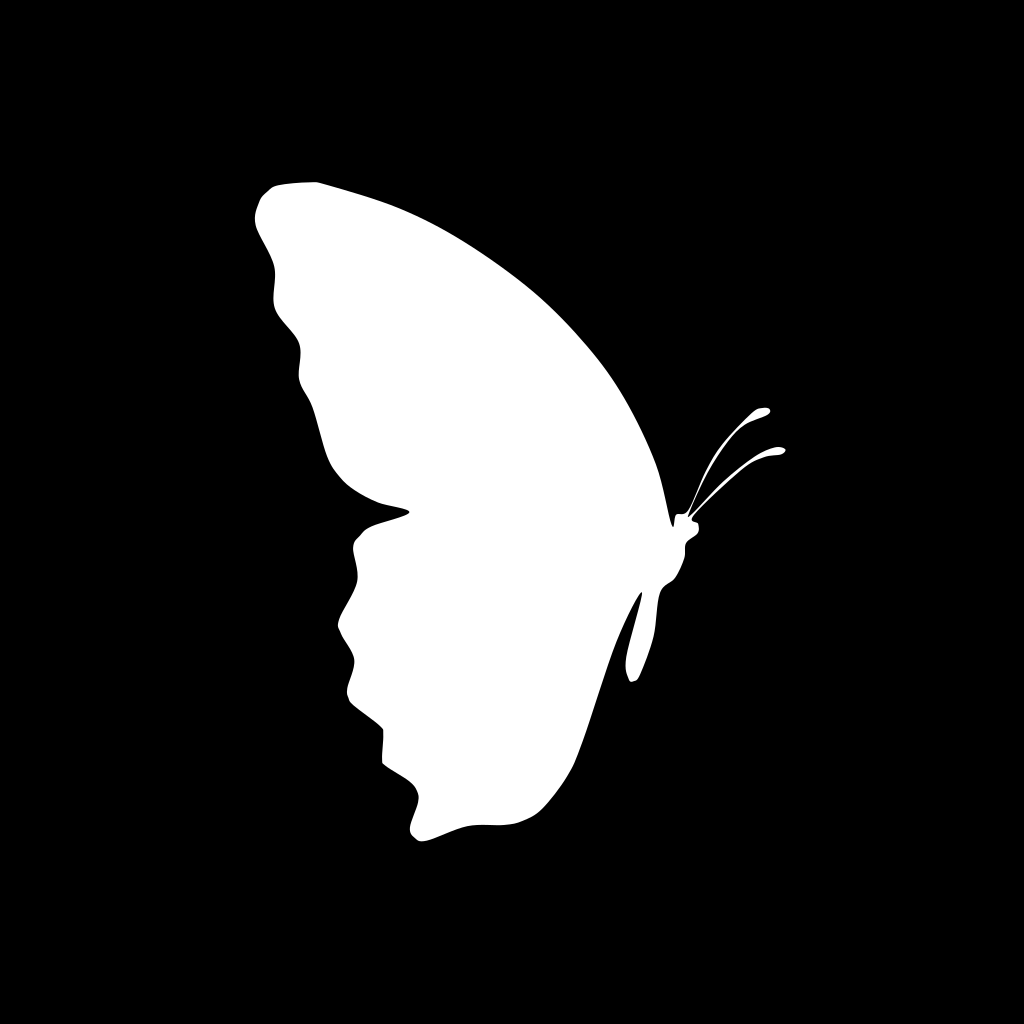
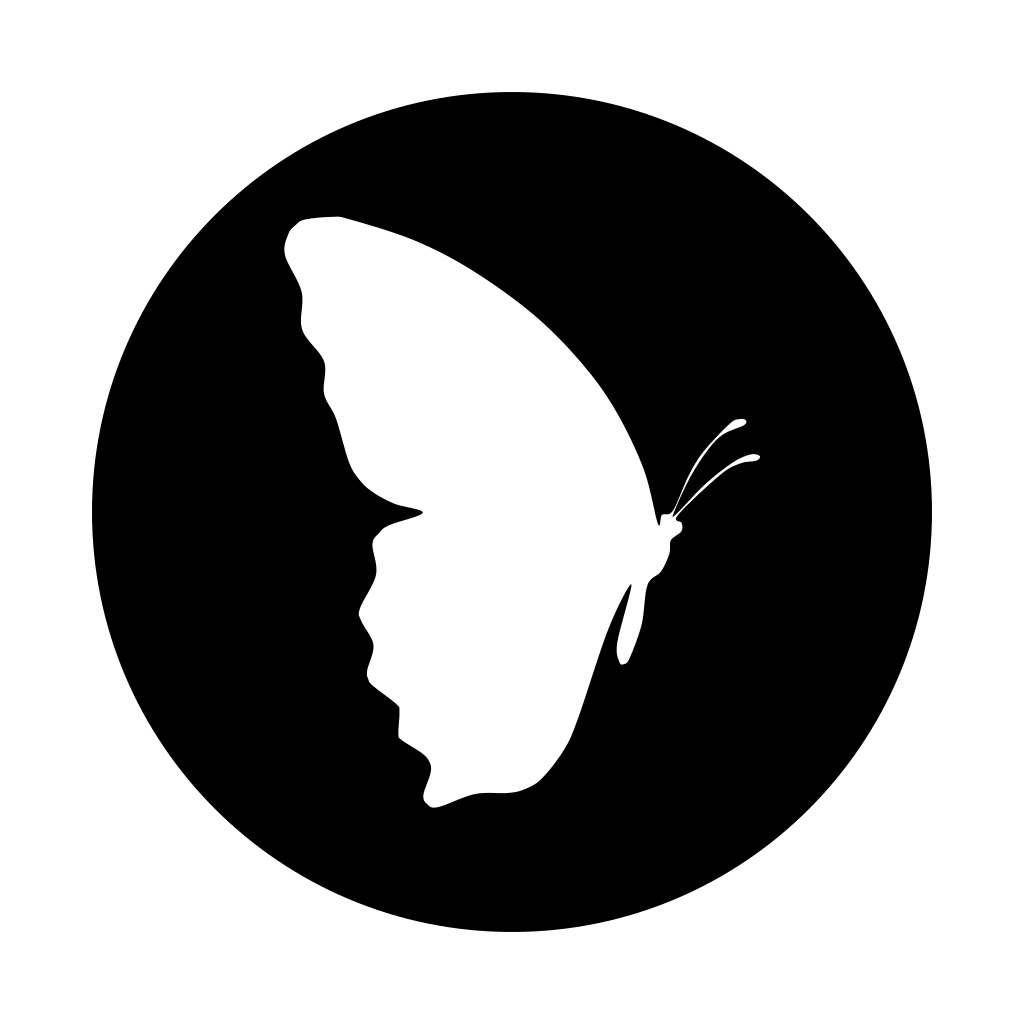
feat: preload core pages and reuse video player

diff --git a/components/ImmersiveVideoPlayer.js b/components/ImmersiveVideoPlayer.js
@@ -1,0 +1,69 @@
+import { useEffect } from 'react';
+
+export default function ImmersiveVideoPlayer({ video, onClose }) {
+  useEffect(() => {
+    if (!video) return undefined;
+
+    const previousOverflow = document.body.style.overflow;
+    const handleKeyDown = (event) => {
+      if (event.key === 'Escape') onClose();
+    };
+
+    document.body.style.overflow = 'hidden';
+    window.addEventListener('keydown', handleKeyDown);
+
+    return () => {
+      document.body.style.overflow = previousOverflow;
+      window.removeEventListener('keydown', handleKeyDown);
+    };
+  }, [onClose, video]);
+
+  if (!video) return null;
+
+  const bvid = video.bvid || video.external_id;
+  const title = video.title || video.video_title || '未命名影片';
+  const authorName = video.up_name || video.author_name;
+
+  return (
+    <div
+      aria-label={`播放影片：${title}`}
+      aria-modal="true"
+      role="dialog"
+      style={{ alignItems: 'center', backgroundColor: 'rgba(0, 0, 0, 0.9)', bottom: 0, display: 'flex', flexDirection: 'column', justifyContent: 'center', left: 0, position: 'fixed', right: 0, top: 0, zIndex: 9999 }}
+    >
+      <button
+        type="button"
+        aria-label="關閉播放器"
+        onClick={onClose}
+        style={{ alignItems: 'center', backdropFilter: 'blur(4px)', backgroundColor: 'rgba(255, 255, 255, 0.1)', border: 'none', borderRadius: '50%', color: '#FFFFFF', cursor: 'pointer', display: 'flex', fontSize: '20px', height: '40px', justifyContent: 'center', padding: 0, position: 'absolute', right: '24px', top: '24px', width: '40px', zIndex: 1 }}
+      >
+        ✕
+      </button>
+
+      <div style={{ maxWidth: '800px', width: '100%' }}>
+        <div style={{ backgroundColor: '#000', boxShadow: '0 10px 40px rgba(0,0,0,0.5)', paddingTop: '56.25%', position: 'relative', width: '100%' }}>
+          {bvid ? (
+            <iframe
+              allow="autoplay; fullscreen"
+              allowFullScreen
+              frameBorder="no"
+              scrolling="no"
+              src={`//player.bilibili.com/player.html?bvid=${bvid}&page=1&autoplay=1&high_quality=1&danmaku=1&loop=1`}
+              style={{ border: 'none', height: '100%', left: 0, position: 'absolute', top: 0, width: '100%' }}
+              title={title}
+            />
+          ) : (
+            <span style={{ alignItems: 'center', color: 'rgba(255,255,255,0.65)', display: 'flex', fontSize: '14px', height: '100%', justifyContent: 'center', left: 0, position: 'absolute', top: 0, width: '100%' }}>
+              這支影片暫時無法播放。
+            </span>
+          )}
+        </div>
+
+        <div style={{ color: '#FFFFFF', marginTop: '20px', padding: '0 24px', textAlign: 'center' }}>
+          <h2 style={{ fontSize: '16px', fontWeight: 500, letterSpacing: '0.5px', margin: '0 0 8px' }}>{title}</h2>
+          {authorName && <div style={{ color: 'rgba(255, 255, 255, 0.6)', fontSize: '13px' }}>@{authorName}</div>}
+        </div>
+      </div>
+    </div>
+  );
+}

diff --git a/pages/index.js b/pages/index.js
@@ -1,12 +1,15 @@
-import { useEffect, useState } from 'react';
+import { useEffect, useRef, useState } from 'react';
 import Head from 'next/head';
 import { useRouter } from 'next/router';
 import AppBottomNav from '@/components/AppBottomNav';
 import AestheteBadge from '@/components/AestheteBadge';
+import ImmersiveVideoPlayer from '@/components/ImmersiveVideoPlayer';
 import { requireLogin } from '@/lib/auth/requireLogin';
 import { showToast } from '@/lib/ui/toast';
 import { cachePostPreview } from '@/lib/cache/postDetailCache';
 import { cacheHomeFeed, getCachedHomeFeed } from '@/lib/cache/homeFeedCache';
+import { prefetchMessageInbox } from '@/lib/cache/messagePageCache';
+import { prefetchModules } from '@/lib/cache/modulePageCache';
 import { prefetchProfilePage } from '@/lib/cache/profilePageCache';
 import { cacheProfileRoute } from '@/lib/auth/profileRoute';
 import { loadUnreadNotificationCount } from '@/lib/notifications/userNotifications';
@@ -29,6 +32,7 @@ export default function Home() {
   // 交互状态保留
   const [immersiveVideo, setImmersiveVideo] = useState(null);
   const [detailPageVideo, setDetailPageVideo] = useState(null);
+  const warmedUpIdentityRef = useRef('');
   const myProfilePath = userProfile?.username ? `/u/${userProfile.username}` : '/u/me';
 
   // 初始化加载数据
@@ -129,6 +133,47 @@ export default function Home() {
     });
   }, [router, videos]);
 
+  useEffect(() => {
+    if (loading || isIdentityLoading || typeof window === 'undefined') return undefined;
+
+    // 弱網與省流模式優先保住首頁本身，不在背景額外取用頁面資源。
+    const connection = navigator.connection || navigator.mozConnection || navigator.webkitConnection;
+    if (connection?.saveData || ['slow-2g', '2g'].includes(connection?.effectiveType)) return undefined;
+
+    const identityKey = currentUser?.id || 'guest';
+    if (warmedUpIdentityRef.current === identityKey) return undefined;
+    warmedUpIdentityRef.current = identityKey;
+
+    const warmUpCorePages = () => {
+      if (document.visibilityState !== 'visible') return;
+
+      // 只預熱高頻入口的程式碼；資料仍維持既有的快取與權限判斷。
+      ['/m', '/search', '/submit'].forEach((path) => {
+        router.prefetch(path).catch(() => {});
+      });
+      prefetchModules().catch(() => {});
+
+      if (!currentUser) return;
+
+      router.prefetch('/messages').catch(() => {});
+      router.prefetch('/notifications').catch(() => {});
+      prefetchMessageInbox().catch(() => {});
+
+      if (userProfile?.username) {
+        router.prefetch(`/u/${userProfile.username}`).catch(() => {});
+      }
+    };
+
+    // 把工作让给浏览器的空闲时段，避免首页刚打开就出现抢资源的卡顿。
+    if ('requestIdleCallback' in window) {
+      const idleCallbackId = window.requestIdleCallback(warmUpCorePages, { timeout: 2000 });
+      return () => window.cancelIdleCallback(idleCallbackId);
+    }
+
+    const timeoutId = window.setTimeout(warmUpCorePages, 800);
+    return () => window.clearTimeout(timeoutId);
+  }, [currentUser, isIdentityLoading, loading, router, userProfile?.username]);
+
   // 历史记录劫持：防侧滑退出魔法
   useEffect(() => {
     const handlePopState = () => {
@@ -141,7 +186,7 @@ export default function Home() {
 
   // 鎖定背景滾動
   useEffect(() => {
-    if (immersiveVideo || detailPageVideo) {
+    if (detailPageVideo) {
       document.body.style.overflow = 'hidden';
     } else {
       document.body.style.overflow = '';
@@ -149,7 +194,7 @@ export default function Home() {
     return () => {
       document.body.style.overflow = '';
     };
-  }, [immersiveVideo, detailPageVideo]);
+  }, [detailPageVideo]);
 
   const openImmersive = (video) => {
     window.history.pushState({ modal: true }, "");
@@ -294,7 +339,7 @@ export default function Home() {
     // 主背景：略帶冷灰的基礎色
     <div style={{ backgroundColor: 'var(--bg-base)', minHeight: '100vh', color: 'var(--text-primary)', fontFamily: '-apple-system, BlinkMacSystemFont, "Segoe UI", sans-serif', paddingBottom: '100px', position: 'relative' }}>
       <Head>
-        <title>採樣器 · 審美者</title>
+        <title>採樣器</title>
       </Head>
 
       {/* 顶部导航栏 */}
@@ -485,21 +530,7 @@ export default function Home() {
 
       <AppBottomNav active="home" />
 
-      {/* 浮层 1：私人放映室 (保持暗黑幕布的高级感) */}
-      {immersiveVideo && (
-        <div style={{ position: 'fixed', top: 0, left: 0, right: 0, bottom: 0, backgroundColor: 'rgba(0, 0, 0, 0.9)', zIndex: 9999, display: 'flex', flexDirection: 'column', alignItems: 'center', justifyContent: 'center' }}>
-          <div onClick={closeImmersive} style={{ position: 'absolute', top: '24px', right: '24px', zIndex: 10000, width: '40px', height: '40px', borderRadius: '50%', backgroundColor: 'rgba(255, 255, 255, 0.1)', display: 'flex', alignItems: 'center', justifyContent: 'center', color: '#FFFFFF', cursor: 'pointer', backdropFilter: 'blur(4px)', fontSize: '20px' }}>✕</div>
-          <div style={{ width: '100%', maxWidth: '800px' }}>
-            <div style={{ position: 'relative', width: '100%', paddingTop: '56.25%', backgroundColor: '#000', boxShadow: '0 10px 40px rgba(0,0,0,0.5)' }}>
-              <iframe src={`//player.bilibili.com/player.html?bvid=${immersiveVideo.bvid}&page=1&autoplay=1&high_quality=1&danmaku=1&loop=1`} scrolling="no" border="0" frameBorder="no" framespacing="0" allowFullScreen={true} allow="autoplay; fullscreen" style={{ position: 'absolute', top: 0, left: 0, width: '100%', height: '100%', border: 'none' }}></iframe>
-            </div>
-            <div style={{ marginTop: '20px', color: '#FFFFFF', textAlign: 'center' }}>
-              <h2 style={{ fontSize: '16px', fontWeight: '500', margin: '0 0 8px 0', letterSpacing: '0.5px' }}>{immersiveVideo.title}</h2>
-              <div style={{ fontSize: '13px', color: 'rgba(255, 255, 255, 0.6)' }}>@{immersiveVideo.up_name}</div>
-            </div>
-          </div>
-        </div>
-      )}
+      <ImmersiveVideoPlayer video={immersiveVideo} onClose={closeImmersive} />
 
       {/* 浮层 2：文字单页详情式 */}
       {detailPageVideo && (

diff --git a/pages/m/[slug].js b/pages/m/[slug].js
@@ -3,6 +3,7 @@ import Head from 'next/head';
 import { useRouter } from 'next/router';
 import AppBottomNav from '@/components/AppBottomNav';
 import AestheteBadge from '@/components/AestheteBadge';
+import ImmersiveVideoPlayer from '@/components/ImmersiveVideoPlayer';
 import { requireLogin } from '@/lib/auth/requireLogin';
 import { canCurateInModules, loadProfileRole } from '@/lib/auth/roles';
 import { getCachedModulePage, prefetchModulePage } from '@/lib/cache/modulePageCache';
@@ -33,7 +34,7 @@ function getInitial(name) {
   return name ? name.charAt(0).toUpperCase() : '審';
 }
 
-function ModulePostCard({ post, profile, router }) {
+function ModulePostCard({ post, profile, router, onPlay }) {
   const video = post.videos || {};
   const displayName = getDisplayName(post, profile);
 
@@ -61,8 +62,8 @@ function ModulePostCard({ post, profile, router }) {
 
       <button
         type="button"
-        onClick={() => router.push(`/v/${video.id}`)}
-        aria-label={`開啟影片：${video.title || '未命名影片'}`}
+        onClick={() => onPlay(video)}
+        aria-label={`播放影片：${video.title || '未命名影片'}`}
         style={{ backgroundColor: 'var(--bg-base)', backgroundImage: video.cover_url ? `url(${video.cover_url})` : 'none', backgroundPosition: 'center', backgroundSize: 'cover', border: '1px solid var(--border-light)', cursor: 'pointer', display: 'block', margin: '0 16px 12px', borderRadius: '8px', overflow: 'hidden', position: 'relative', width: 'calc(100% - 32px)', paddingTop: 'calc((100% - 32px) * 0.5625)' }}
       >
         <span style={{ alignItems: 'center', backgroundColor: 'rgba(255, 255, 255, 0.75)', borderRadius: '50%', boxShadow: '0 2px 8px rgba(0,0,0,0.05)', display: 'flex', height: '42px', justifyContent: 'center', left: '50%', position: 'absolute', top: '50%', transform: 'translate(-50%, -50%)', width: '42px', backdropFilter: 'blur(4px)' }}>
@@ -110,6 +111,7 @@ export default function ModuleDetailPage() {
   const [profilesById, setProfilesById] = useState(() => cachedPage?.profilesById || {});
   const [loading, setLoading] = useState(() => !cachedPage);
   const [errorMessage, setErrorMessage] = useState('');
+  const [immersiveVideo, setImmersiveVideo] = useState(null);
 
   useEffect(() => {
     if (!slug) return;
@@ -142,6 +144,22 @@ export default function ModuleDetailPage() {
 
     loadModulePage();
   }, [slug]);
+
+  useEffect(() => {
+    const closePlayerOnBack = () => setImmersiveVideo(null);
+    window.addEventListener('popstate', closePlayerOnBack);
+    return () => window.removeEventListener('popstate', closePlayerOnBack);
+  }, []);
+
+  const openImmersiveVideo = (video) => {
+    window.history.pushState({ immersiveVideo: true }, '');
+    setImmersiveVideo(video);
+  };
+
+  const closeImmersiveVideo = () => {
+    setImmersiveVideo(null);
+    if (window.history.state?.immersiveVideo) window.history.back();
+  };
 
   const goToModuleSubmit = async () => {
     if (module?.status === 'archived') {
@@ -206,11 +224,12 @@ export default function ModuleDetailPage() {
 
             {posts.length === 0 && <div style={{ color: 'var(--text-tertiary)', lineHeight: 1.8, padding: '38px 18px', textAlign: 'center' }}>這座小館還沒有策展。等第一束光被放進來。</div>}
 
-            {posts.map((post) => <ModulePostCard key={post.id} post={post} profile={profilesById[post.user_id]} router={router} />)}
+            {posts.map((post) => <ModulePostCard key={post.id} post={post} profile={profilesById[post.user_id]} router={router} onPlay={openImmersiveVideo} />)}
           </>
         )}
       </main>
       <AppBottomNav active="modules" />
+      <ImmersiveVideoPlayer video={immersiveVideo} onClose={closeImmersiveVideo} />
     </div>
   );
 }

diff --git a/pages/_document.js b/pages/_document.js
@@ -4,15 +4,18 @@ export default function Document() {
   return (
     <Html lang="zh-Hant-TW">
       <Head>
-        <link rel="icon" href="/brand/butterfly.svg" type="image/svg+xml" />
-        <link rel="apple-touch-icon" href="/brand/butterfly.png" />
+        <link rel="icon" href="/brand/butterfly.svg?v=2" type="image/svg+xml" />
+        <link rel="icon" href="/brand/butterfly.png?v=2" type="image/png" sizes="1024x1024" />
+        <link rel="apple-touch-icon" href="/brand/butterfly.png?v=2" />
         <meta property="og:site_name" content="審美者" />
         <meta property="og:type" content="website" />
-        <meta property="og:image" content="https://shenmei.org/brand/butterfly.png" />
+        <meta property="og:image" content="https://shenmei.org/brand/butterfly.png?v=2" />
+        <meta property="og:image:type" content="image/png" />
+        <meta property="og:image:alt" content="採樣器黑白蝴蝶圖標" />
         <meta property="og:image:width" content="1024" />
         <meta property="og:image:height" content="1024" />
         <meta name="twitter:card" content="summary" />
-        <meta name="twitter:image" content="https://shenmei.org/brand/butterfly.png" />
+        <meta name="twitter:image" content="https://shenmei.org/brand/butterfly.png?v=2" />
       </Head>
       <body className="antialiased">
         <Main />

diff --git a/lib/cache/modulePageCache.js b/lib/cache/modulePageCache.js
@@ -105,6 +105,7 @@ export async function prefetchModulePage(slug, { force = false } = {}) {
         comment_count,
         videos (
           id,
+          external_id,
           title,
           cover_url
         )